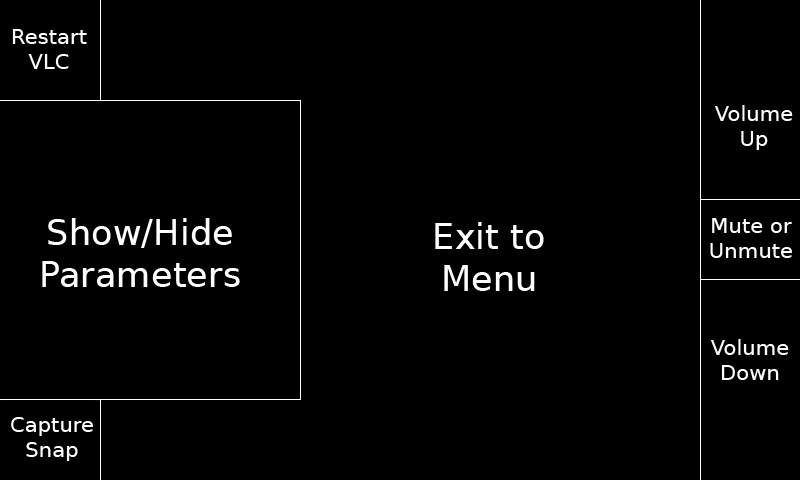
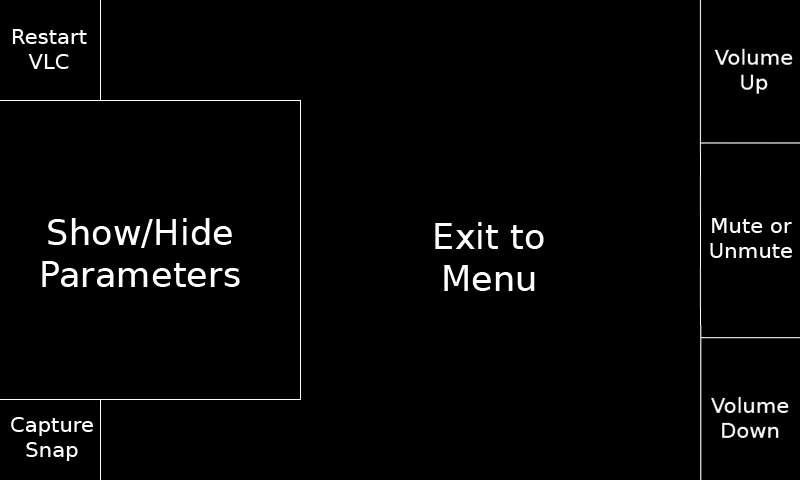
202504290 Minor Enhancements

diff --git a/src/gui/rpidatvtouch4.c b/src/gui/rpidatvtouch4.c
@@ -12122,17 +12122,17 @@ void *WaitButtonLMRX(void * arg)
         FinishedButton = 2; // graphics off
       }
     }
-    else if((scaledX >= 35 * wscreen / 40) && (scaledY >= 7 * hscreen / 12))  // Top Right
+    else if((scaledX >= 35 * wscreen / 40) && (scaledY >= 8 * hscreen / 12))  // Top Right
     {
       //printf("Volume Up.\n");
       AdjustVLCVolume(51);
     }
-    else if((scaledX >= 35 * wscreen / 40) && (scaledY >= 5 * hscreen / 12) && (scaledY < 7 * hscreen / 12))  // mid Right
+    else if((scaledX >= 35 * wscreen / 40) && (scaledY >= 4 * hscreen / 12) && (scaledY < 8 * hscreen / 12))  // mid Right
     {
       //printf("Volume Mute.\n");
       AdjustVLCVolume(-512);
     }
-    else if((scaledX >= 35 * wscreen / 40) && (scaledY < 5 * hscreen / 12))  // Bottom Right
+    else if((scaledX >= 35 * wscreen / 40) && (scaledY < 4 * hscreen / 12))  // Bottom Right
     {
       //printf("Volume Down.\n");
       AdjustVLCVolume(-51);
@@ -14305,7 +14305,8 @@ void LMRX(int NoButton)
 
             rectangle(wscreen * 1 / 40, hscreen - 1 * linepitch - txtdesc, wscreen * 19 / 40, txttot, 0, 0, 0);
             Text2(wscreen * 1 / 40, hscreen - 1 * linepitch, STATEtext, font_ptr);
-            rectangle(wscreen * 1 / 40, hscreen - 9 * linepitch - txtdesc, 620, 8, 0, 0, 0);
+            rectangle(wscreen * 1 / 40, hscreen - 9 * linepitch - txtdesc, 470, 8, 0, 0, 0);  // line at base of text
+            rectangle(490, hscreen - 9 * linepitch - txtdesc, 160, 230, 0, 0, 0);             // poss 3rd digit
             LargeText2(wscreen * 1 / 40, hscreen - 9 * linepitch, 4, MERtext, &font_dejavu_sans_72);
             Text2(wscreen * 1 / 40, hscreen - 12 * linepitch, "Touch Centre to Exit", font_ptr);
 
